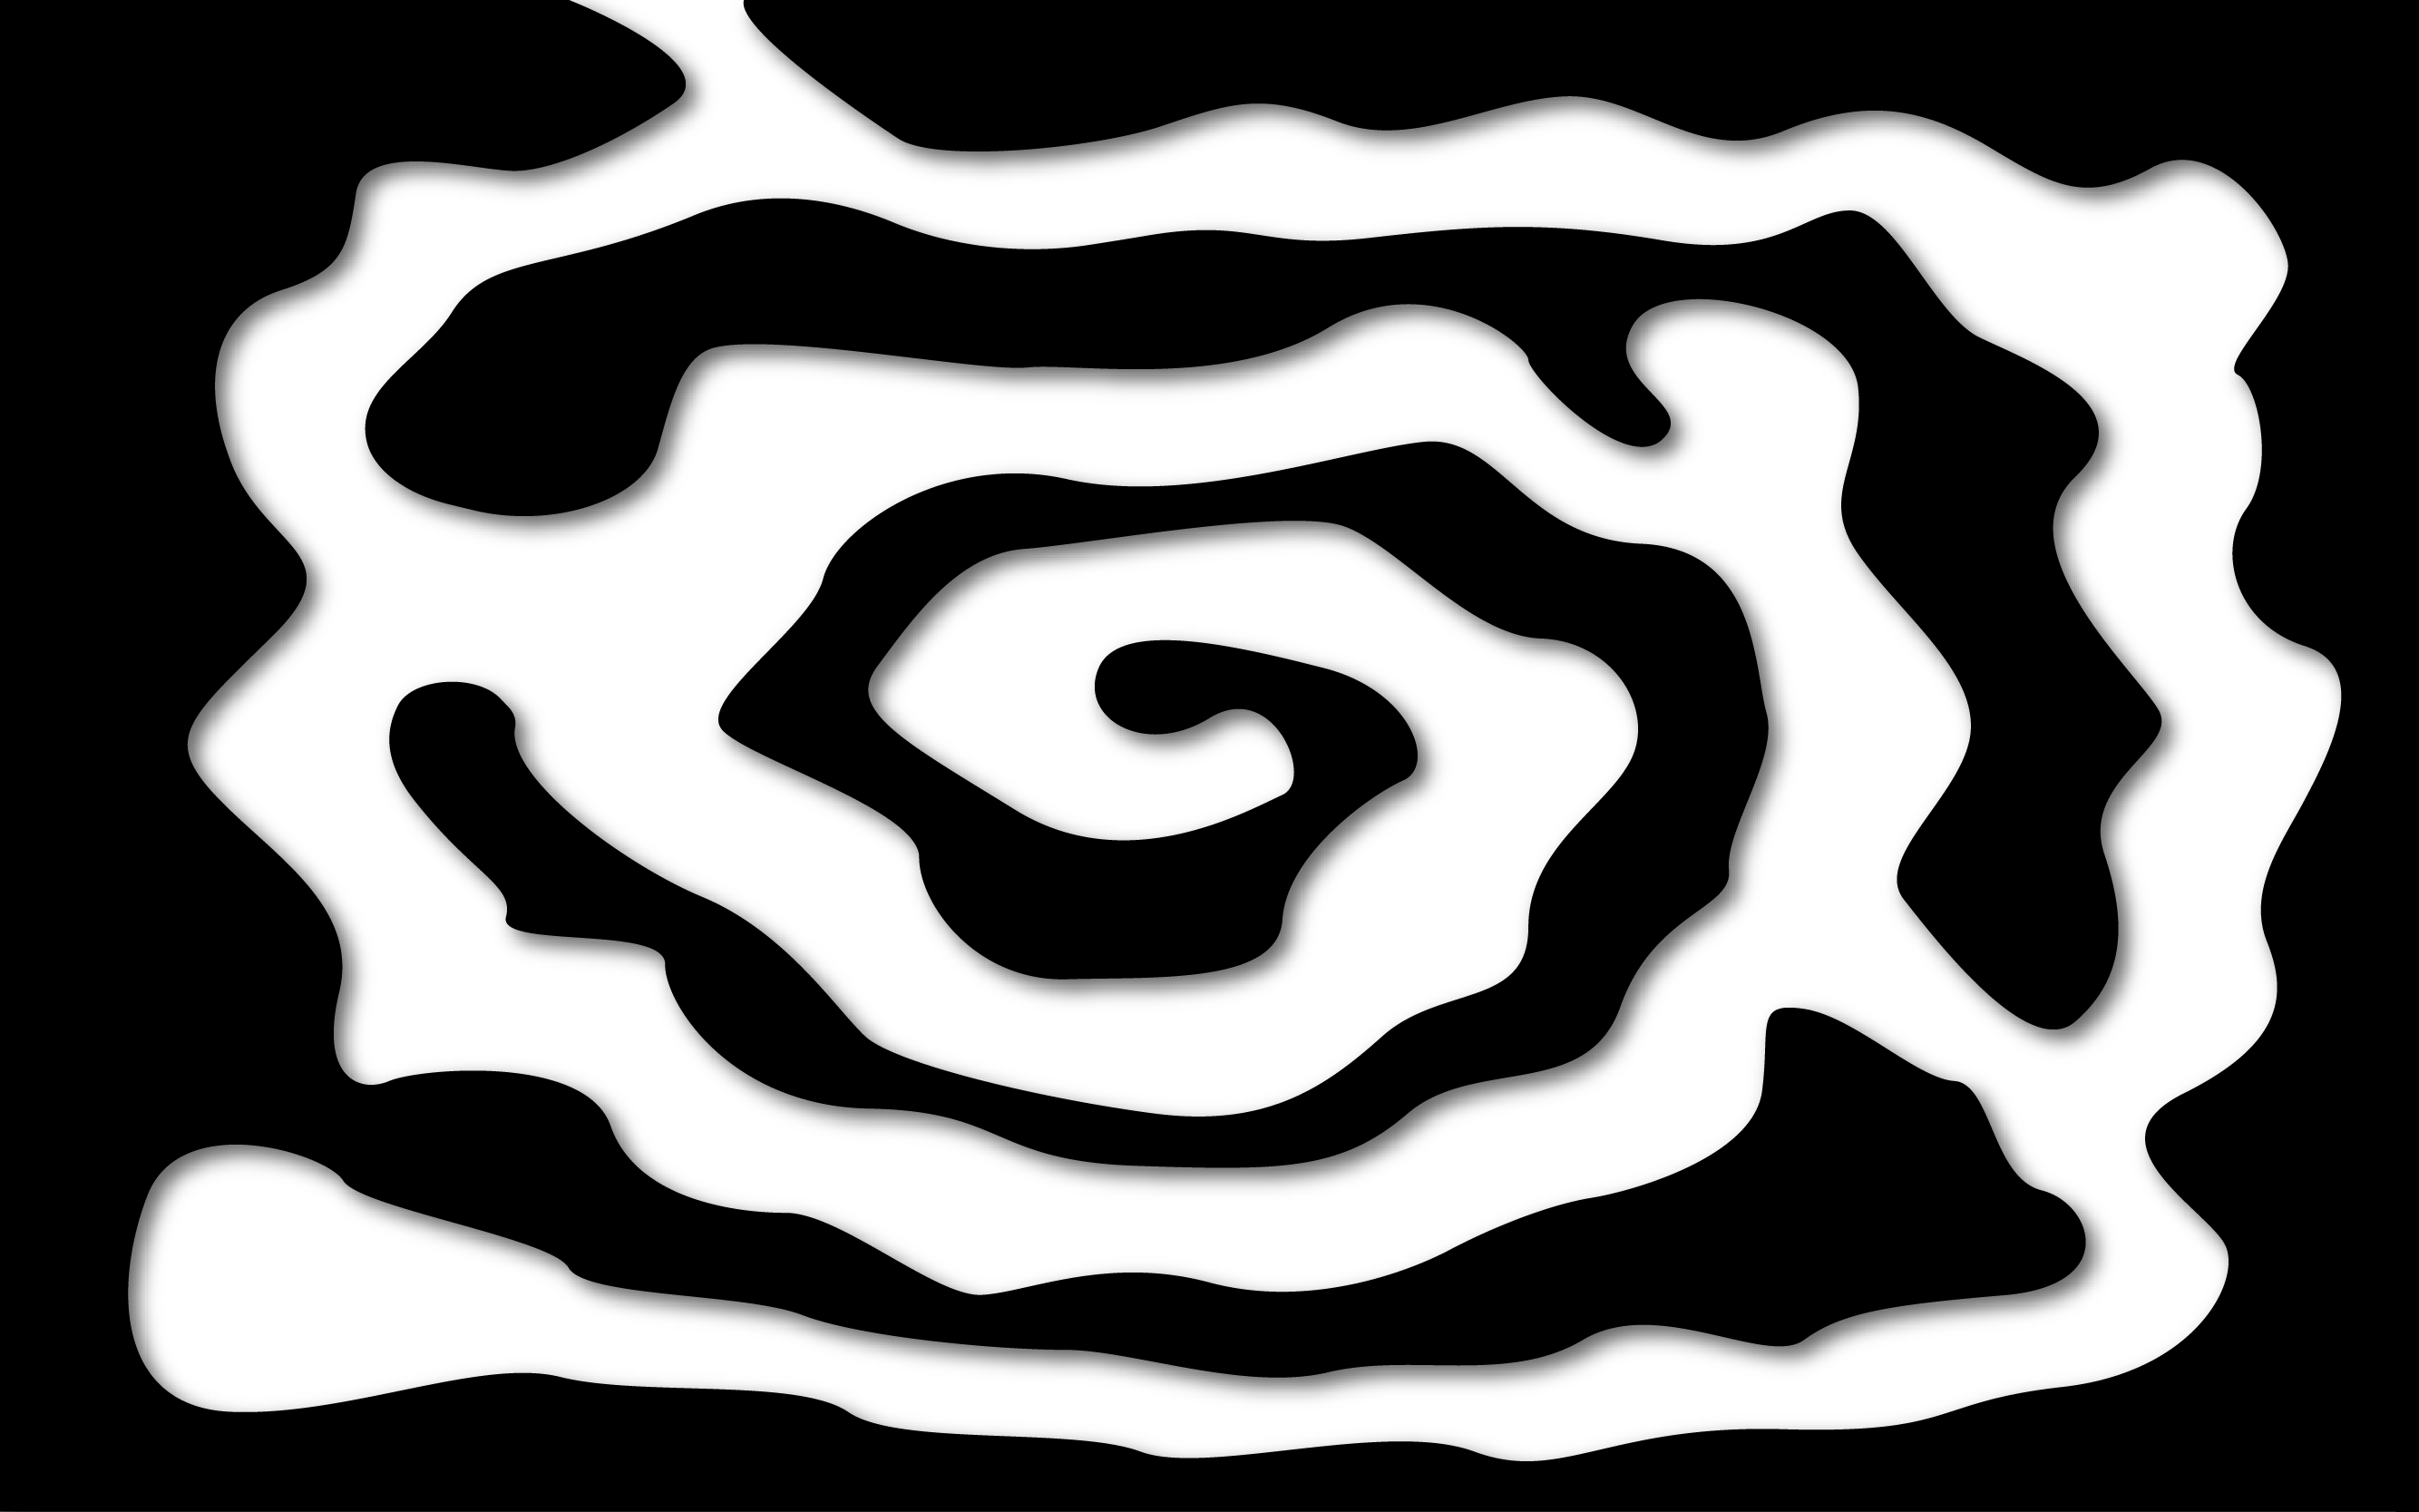
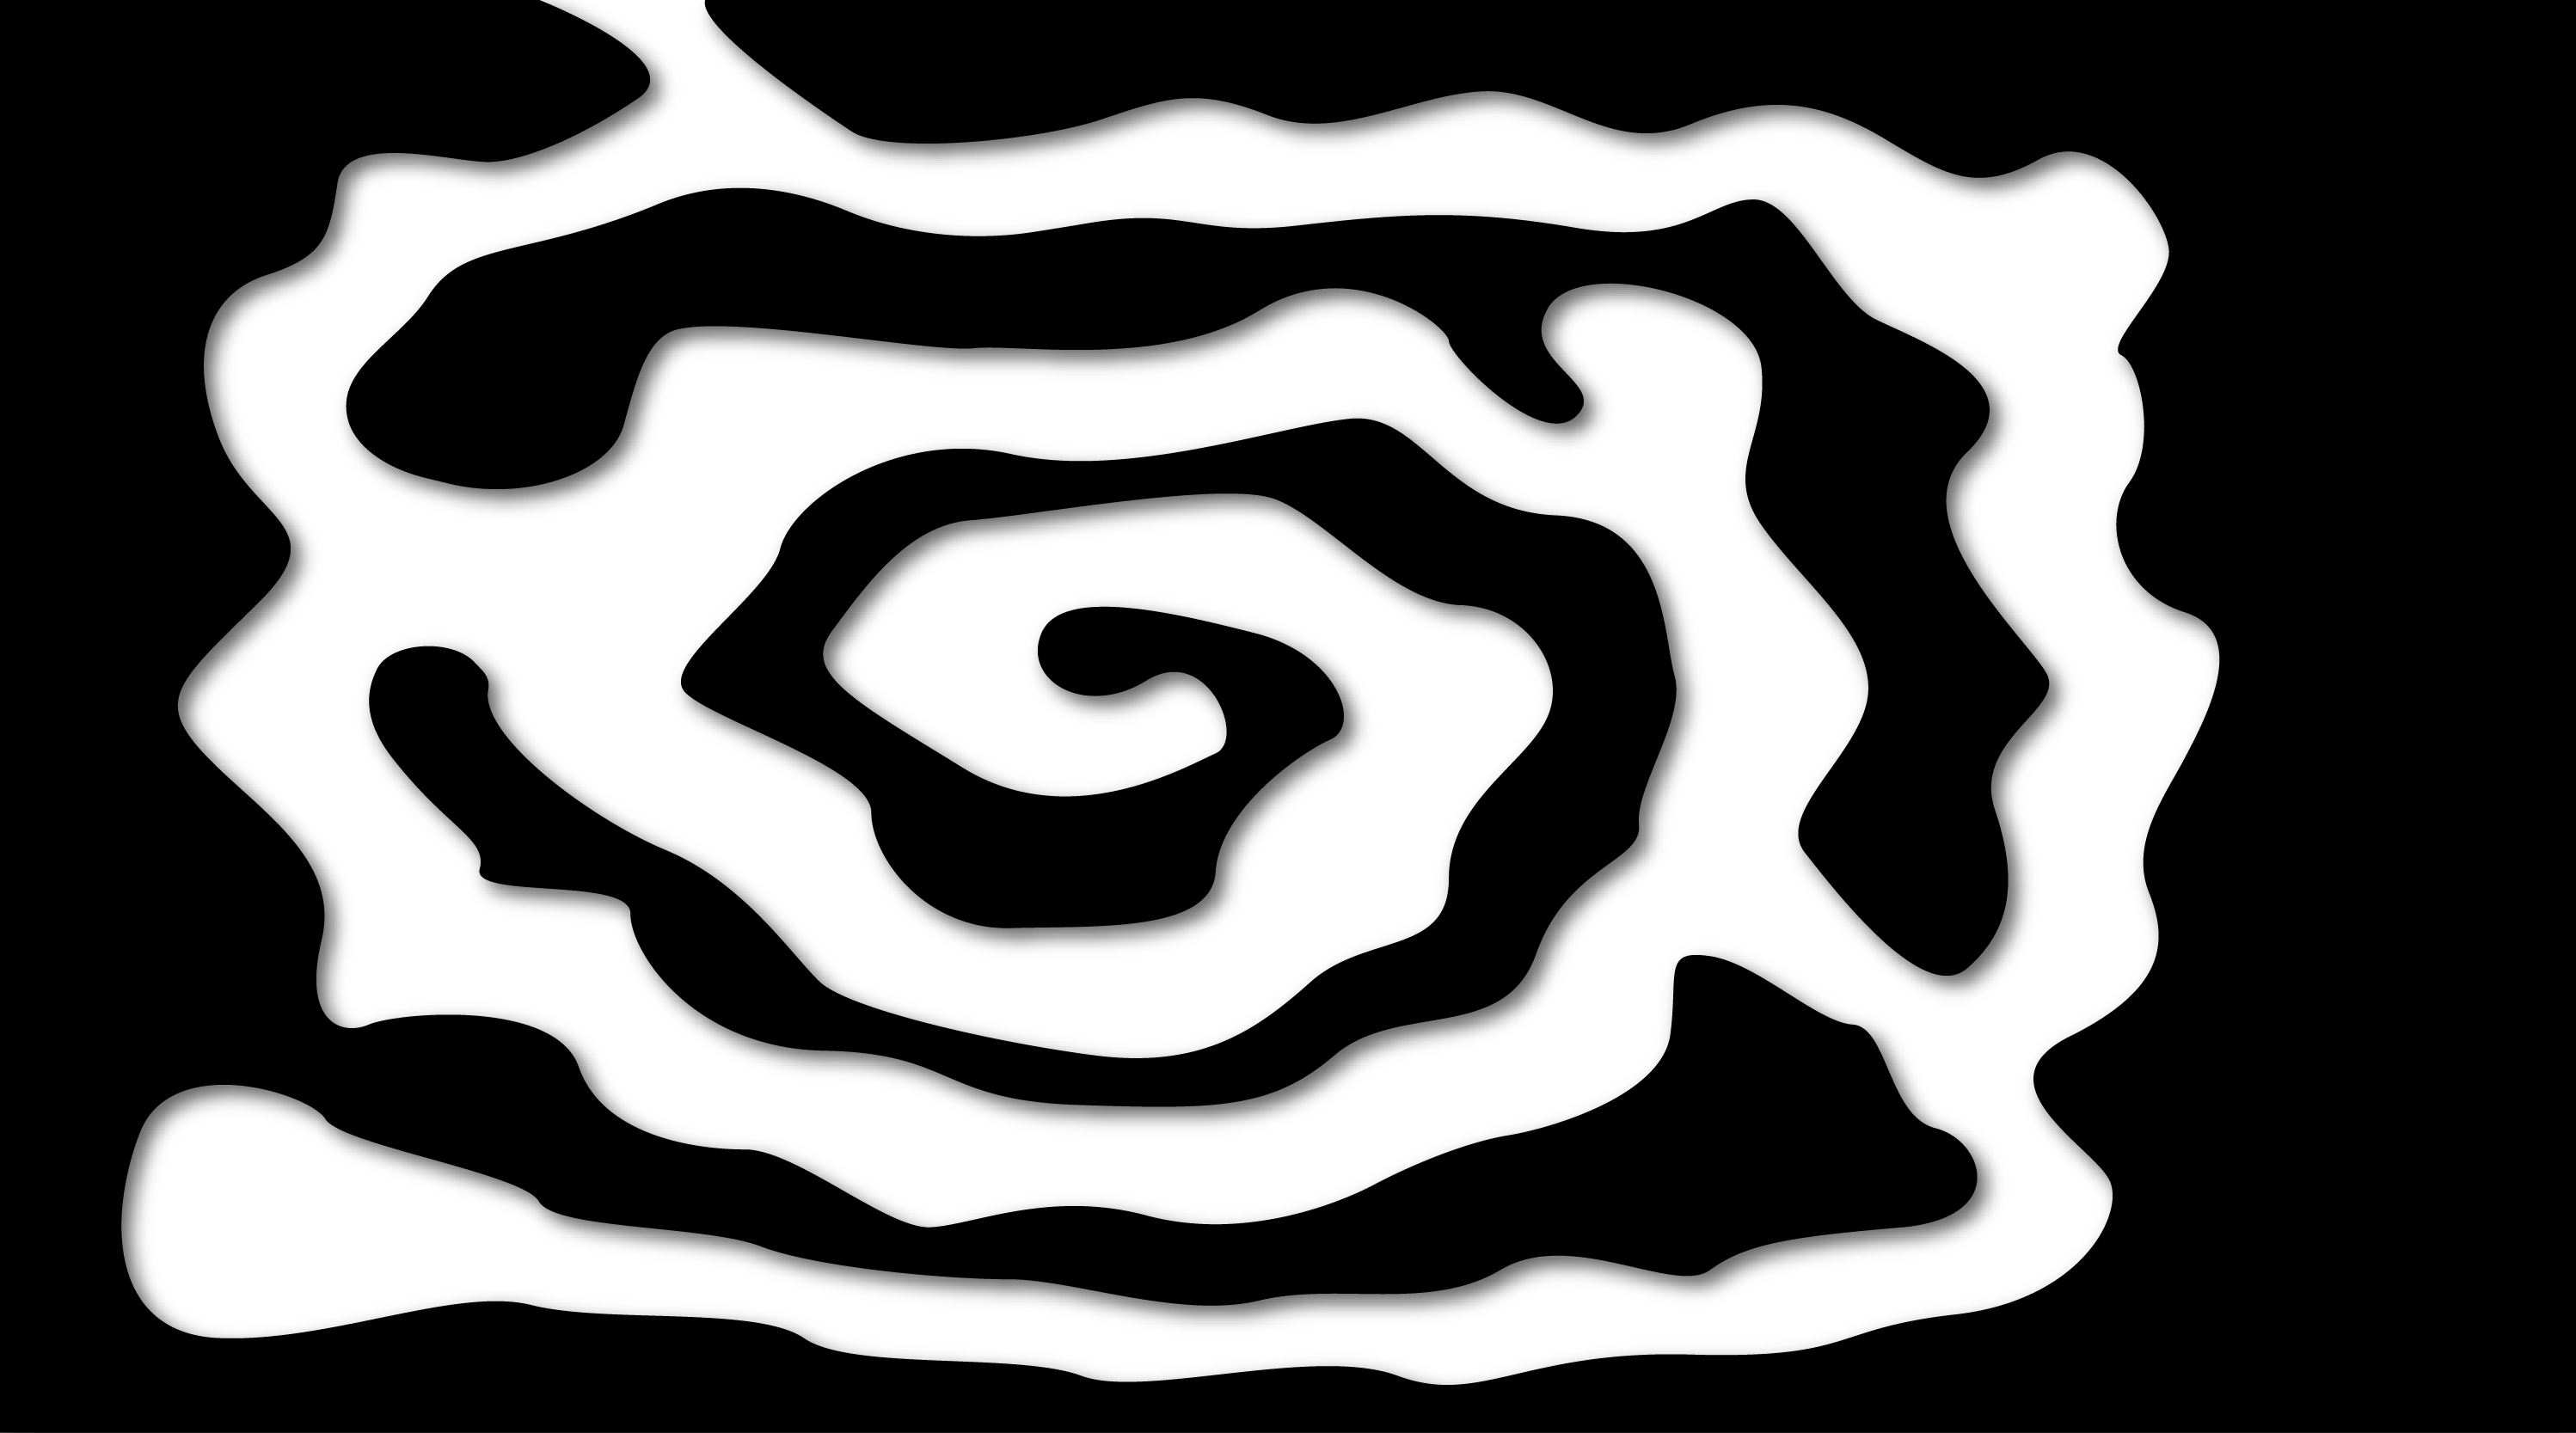
all loops updated, glow added, speech added

diff --git a/m1n4-th1n-pl4ce/style.css b/m1n4-th1n-pl4ce/style.css
@@ -30,48 +30,36 @@ html {
   height: 100%;
 }
 
-/* ── Narration text at top ── */
-.narration {
-  position: absolute;
-  top: 15%;
-  left: 0;
-  right: 0;
-  width: 75%;
-  margin: 0 auto;
-  text-align: center;
-  font-size: 1.1em;
-  line-height: 1.6;
-  color: black;
-}
+#subtitle-box {
+  position: fixed;
+  bottom: 45%;
+  left: 50%;
+  transform: translateX(-50%);
 
-/* ── Bottom choices ── */
-.choices {
-  position: absolute;
-  bottom: 5%;
-  left: 0;
-  right: 0;
-  text-align: center;
-}
+  max-width: 600px;
 
-.choice {
-  display: inline-block;
-  white-space: nowrap;
-  width: auto;
-  max-width: 90%;
-  margin: 6px;
-  padding: 10px 28px;
-  background: rgba(255, 255, 255, 1);
-  border: none;
-  border-radius: 0;
-  color: black;
+  padding: 20px;
+
+  color: white;
+  font-size: 34px;
+  text-align: center;
+  line-height: 1.5;
+
   font-family: Arial Narrow, sans-serif;
-  font-size: 1em;
-  text-decoration: none;
+
+  background: rgba(0,0,0,0);
+
   cursor: pointer;
+  user-select: none;
 }
 
-.choice:active {
-  background: rgba(150, 150, 220, 0.8);
+.instructions {
+  position: absolute;
+  top: 8%;
+  center: 50%;
+  text-align: center;
+  font-size: 24px;
+  max-width: 70%;
 }
 
 /* ── Continue button (single choice) ── */
@@ -123,14 +111,6 @@ html {
   font-family: Arial Narrow, serif;
   font-size: 0.75em;
   text-decoration: none;
-}
-
-.highlight {
-  background-color: rgba(255, 255, 255, 1);
-  padding: 2px 8px;
-  line-height: 1.9;
-  box-decoration-break: clone;
-  -webkit-box-decoration-break: clone;
 }
 
 .split {
@@ -229,27 +209,4 @@ body::after {
 
 .trickster-wrap:hover .trickster-bubble {
   opacity: 1;
-}
-
-#subtitle-box {
-  position: fixed;
-  bottom: 45%;
-  left: 50%;
-  transform: translateX(-50%);
-
-  max-width: 600px;
-
-  padding: 20px;
-
-  color: white;
-  font-size: 34px;
-  text-align: center;
-  line-height: 1.5;
-
-  font-family: Arial Narrow, sans-serif;
-
-  background: rgba(0,0,0,0);
-
-  cursor: pointer;
-  user-select: none;
 }

diff --git a/m1n4-th1n-pl4ce/loop5.html b/m1n4-th1n-pl4ce/loop5.html
@@ -18,6 +18,14 @@
       50%  { transform: translateY(-20px); }
       100% { transform: translateY(0px); }
     }
+  .floating {
+  animation: float 3s ease-in-out infinite, glow 3s ease-in-out 40;
+}
+  @keyframes glow {
+  0%   { filter: drop-shadow(0 0 0px yellow); }
+  50%  { filter: drop-shadow(0 0 15px yellow); }
+  100% { filter: drop-shadow(0 0 0px yellow); }
+}    
   </style>
 </head>
 <body style="
@@ -27,17 +35,17 @@
   background-repeat: no-repeat;
   background-position: center;
 ">
-
   <audio id="bg-sound" src="sounds/loop.mp3" loop></audio>
   <script>
     document.getElementById('bg-sound').play();
   </script>
 
-  <!--<a href="index.html" class="restart">restart</a>-->
+<div class="trickster-wrap">
   <img src="pics/trick2.svg" class="floating">
-  <a href="scene4.html" class="continue-btn">Continue differently</a>
+  <img src="pics/speech5.svg" class="trickster-bubble">
+</div>
 
-<img id="sprite" src="pics/dolphin.svg" style="position: absolute; width: 55px;">
+  <img id="sprite" src="pics/whale.svg" style="position: absolute; width: 60px;">
 
   <div id="goal" style="
     position: absolute;
@@ -48,40 +56,16 @@
     /*background: red;*/
   "></div>
 
-  <div id="start" style="
-    position: absolute;
-    width: 20px;
-    height: 20px;
-    top: 50%;
-    left: 53%;
-    background: blue;
-  "></div>
-
   <script>
     var sprite = document.getElementById('sprite');
     var goal = document.getElementById('goal');
-    var x = window.innerWidth / 2;
-    var y = window.innerHeight / 2;
     var speed = 5;
     var keys = {};
+    var x = 740;
+    var y = 290;
 
-    // colour detection setup
-    var canvas = document.createElement('canvas');
-    var ctx = canvas.getContext('2d');
-    var mazeImg = new Image();
-    mazeImg.crossOrigin = 'anonymous';
-    mazeImg.src = 'pics/maze12.png';
-    mazeImg.onload = function() {
-      canvas.width = window.innerWidth;
-      canvas.height = window.innerHeight;
-      ctx.drawImage(mazeImg, 0, 0, canvas.width, canvas.height);
-    };
-
-    function isOnWall(px, py) {
-      var pixel = ctx.getImageData(px, py, 1, 1).data;
-      // black wall = all values close to 0
-      return pixel[0] < 50 && pixel[1] < 50 && pixel[2] < 50;
-    }
+    sprite.style.left = x + 'px';
+    sprite.style.top = y + 'px';
 
     document.addEventListener('keydown', function(e) {
       keys[e.key] = true;
@@ -105,31 +89,19 @@
     }
 
     function move() {
-  var newX = x;
-  var newY = y;
+      if (keys['ArrowUp'])    y -= speed;
+      if (keys['ArrowDown'])  y += speed;
+      if (keys['ArrowLeft'])  x -= speed;
+      if (keys['ArrowRight']) x += speed;
 
-  if (keys['ArrowUp'])    newY -= speed;
-  if (keys['ArrowDown'])  newY += speed;
-  if (keys['ArrowLeft'])  newX -= speed;
-  if (keys['ArrowRight']) newX += speed;
+      sprite.style.top = y + 'px';
+      sprite.style.left = x + 'px';
 
-  x = newX;
-  y = newY;
-
-  sprite.style.top = y + 'px';
-  sprite.style.left = x + 'px';
-
-  checkGoal();
-  requestAnimationFrame(move);
-}
+      checkGoal();
+      requestAnimationFrame(move);
+    }
 
     move();
-
-  function isOnWall(px, py) {
-  if (!canvas.width) return false; // canvas not ready, allow movement
-  var pixel = ctx.getImageData(px, py, 1, 1).data;
-  return pixel[0] < 50 && pixel[1] < 50 && pixel[2] < 50;
-}
   </script>
 
 </body>

diff --git a/m1n4-th1n-pl4ce/loop8.html b/m1n4-th1n-pl4ce/loop8.html
@@ -18,18 +18,36 @@
       50%  { transform: translateY(-20px); }
       100% { transform: translateY(0px); }
     }
+.floating {
+  animation: float 3s ease-in-out infinite, glow 3s ease-in-out 40;
+}
+@keyframes glow {
+  0%   { filter: drop-shadow(0 0 0px orange); }
+  50%  { filter: drop-shadow(0 0 15px orange); }
+  100% { filter: drop-shadow(0 0 0px orange); }
+}    
   </style>
 </head>
-<body style="background-image: url('pics/maze8.png');">
+<body style="
+  background-color: orange;
+  background-image: url('pics/maze8.png');
+  background-size: 100% 100%;
+  background-repeat: no-repeat;
+  background-position: center;
+">
 
   <audio id="bg-sound" src="sounds/loop.mp3" loop></audio>
   <script>
     document.getElementById('bg-sound').play();
   </script>
 
-  <!--<a href="index.html" class="restart">restart</a>-->
+  <!--<a href="index.html" class="restart">restart</a>
+  <a href="scene6.html" class="continue-btn">Continue differently</a>-->
+
+  <div class="trickster-wrap">
   <img src="pics/trick2.svg" class="floating">
-  <a href="scene6.html" class="continue-btn">Continue differently</a>
+  <img src="pics/speech8.svg" class="trickster-bubble">
+</div>
 
   <img id="sprite" src="pics/frog.svg" style="
     position: absolute;
@@ -43,7 +61,7 @@
     width: 60px;
     height: 60px;
     top: 1%;
-    left: 30%;
+    left: 25%;
     /*background: red;*/
   "></div>
 
@@ -55,23 +73,15 @@
     var speed = 5;
     var keys = {};
 
-    // colour detection setup
-    var canvas = document.createElement('canvas');
-    var ctx = canvas.getContext('2d');
-    var mazeImg = new Image();
-    mazeImg.crossOrigin = 'anonymous';
-    mazeImg.src = 'pics/maze8.png';
-    mazeImg.onload = function() {
-      canvas.width = window.innerWidth;
-      canvas.height = window.innerHeight;
-      ctx.drawImage(mazeImg, 0, 0, canvas.width, canvas.height);
-    };
+    var sprite = document.getElementById('sprite');
+    var goal = document.getElementById('goal');
+    var speed = 5;
+    var keys = {};
+    var x = 620;
+    var y = 280;
 
-    function isOnWall(px, py) {
-      var pixel = ctx.getImageData(px, py, 1, 1).data;
-      // black wall = all values close to 0
-      return pixel[0] < 50 && pixel[1] < 50 && pixel[2] < 50;
-    }
+    sprite.style.left = x + 'px';
+    sprite.style.top = y + 'px';
 
     document.addEventListener('keydown', function(e) {
       keys[e.key] = true;

diff --git a/m1n4-th1n-pl4ce/intro2.html b/m1n4-th1n-pl4ce/intro2.html
@@ -1,0 +1,42 @@
+<!DOCTYPE html>
+<html lang="en">
+<head>
+  <meta charset="UTF-8">
+  <meta name="viewport" content="width=device-width, initial-scale=1.0">
+  <title>again and again and again</title>
+  <link rel="stylesheet" href="style.css">
+</head>
+
+<body>
+  <body>
+
+  <div class="instructions">
+    Throw an ability into the pit to start the passage
+  </div>
+
+  <div class="center-image">
+    <img src="pics/center.png">
+  </div>
+
+  <div class="choices">
+
+    <a href="scene1.html" class="choice">
+      <img src="pics/choice1.png">
+    </a>
+
+    <a href="scene2.html" class="choice">
+      <img src="pics/choice2.png">
+    </a>
+
+    <a href="scene3.html" class="choice">
+      <img src="pics/choice3.png">
+    </a>
+
+    <a href="scene4.html" class="choice">
+      <img src="pics/choice4.png">
+    </a>
+
+  </div>
+
+</body>
+</html>

diff --git a/m1n4-th1n-pl4ce/loop12.html b/m1n4-th1n-pl4ce/loop12.html
@@ -18,6 +18,14 @@
       50%  { transform: translateY(-20px); }
       100% { transform: translateY(0px); }
     }
+.floating {
+  animation: float 3s ease-in-out infinite, glow 3s ease-in-out 40;
+}
+@keyframes glow {
+  0%   { filter: drop-shadow(0 0 0px purple); }
+  50%  { filter: drop-shadow(0 0 15px purple); }
+  100% { filter: drop-shadow(0 0 0px purple); }
+}    
   </style>
 </head>
 <body style="
@@ -37,7 +45,7 @@
     <img src="pics/speech12.svg" class="trickster-bubble">
   </div>
 
-  <a href="scene2.html" class="continue-btn">Continue differently</a>
+  <!--<a href="scene2.html" class="continue-btn">Continue differently</a>-->
 
   <img id="sprite" src="pics/crab.svg" style="position: absolute; width: 55px;">
 
@@ -56,7 +64,7 @@
     height: 20px;
     top: 48%;
     left: 41%;
-    /*background: blue;
+    /*background: blue;*/
   "></div>
 
   <script>